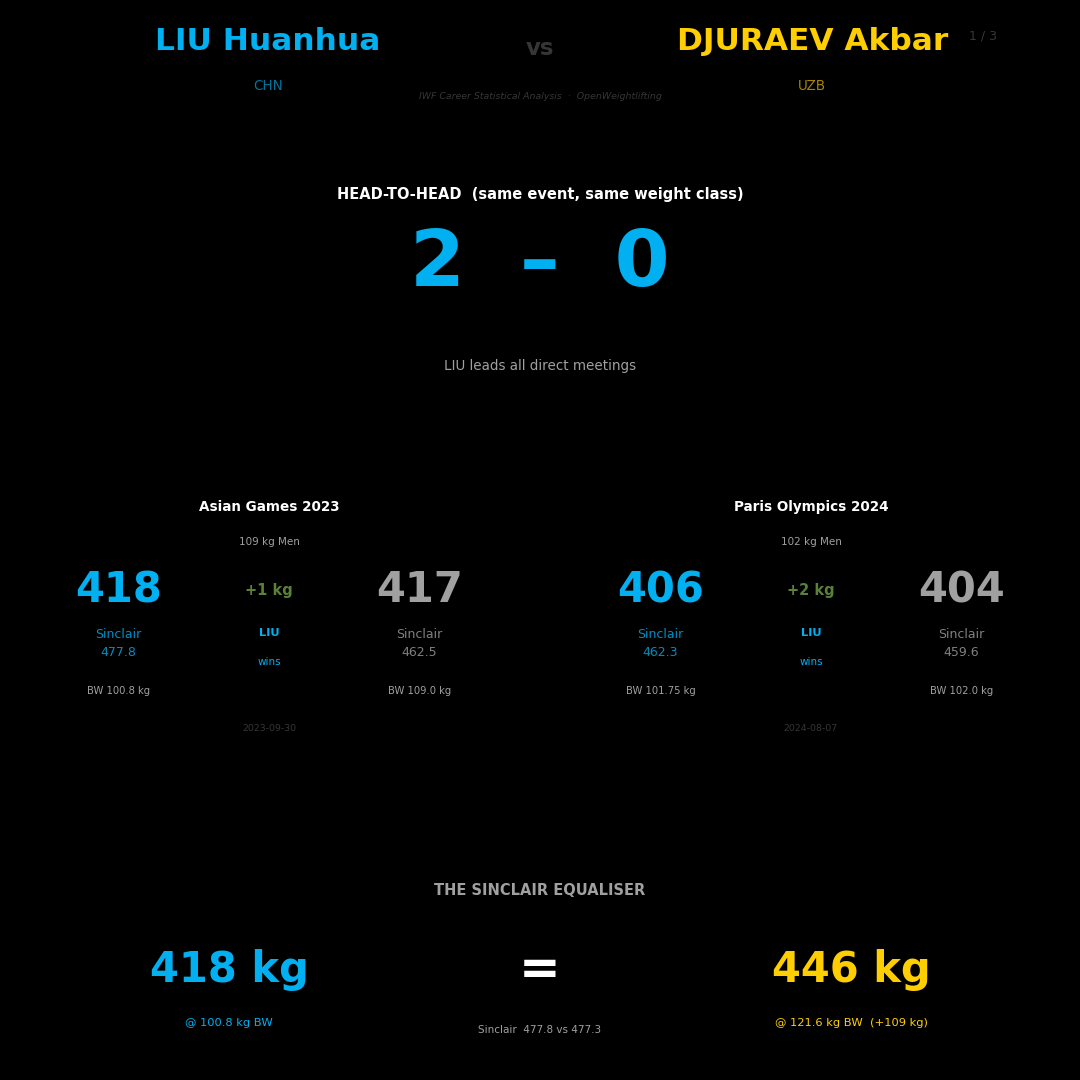
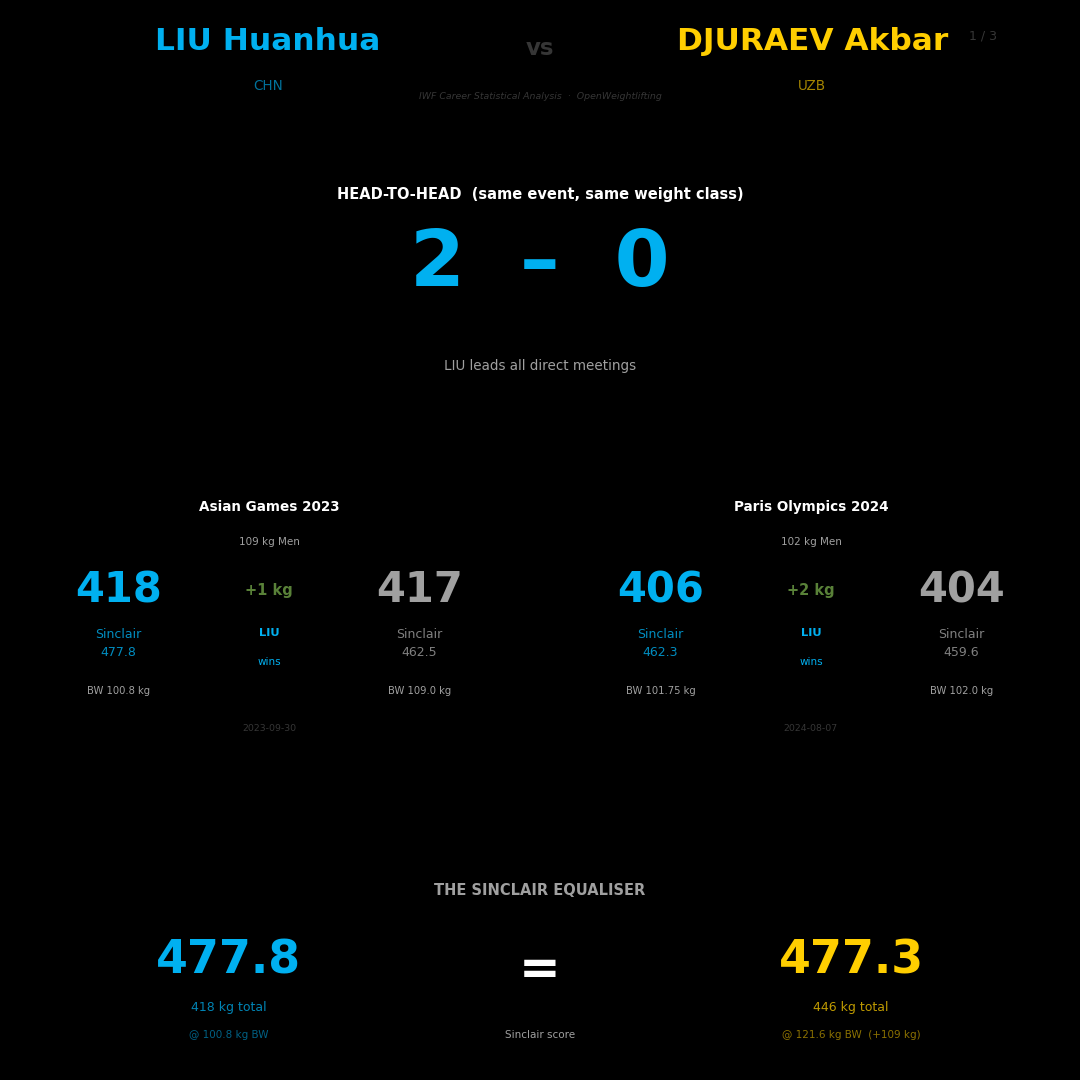
Invert Sinclair Equalizer: Sinclair scores as primary metric
Make the Sinclair scores (477.8 / 477.3) the large bold headline numbers
in the Sinclair Equalizer panel on Image 1, with raw totals and bodyweights
shown as smaller supporting context underneath.

https://claude.ai/code/session_01SfcGjgDhcGC31Kzw2TLvE9

diff --git a/scripts/compare_liu_akbar.py b/scripts/compare_liu_akbar.py
@@ -341,20 +341,24 @@ ax1e.text(0.50, 0.72, 'THE SINCLAIR EQUALISER', ha='center', va='center',
           color=LGRAY, fontsize=7, fontweight='bold',
           transform=ax1e.transAxes)
 
-ax1e.text(0.18, 0.38, '418 kg', ha='center', va='center', color=LIU_C,
-          fontsize=20, fontweight='black', transform=ax1e.transAxes)
-ax1e.text(0.18, 0.15, '@ 100.8 kg BW', ha='center', va='center',
-          color=LIU_C, fontsize=5.5, transform=ax1e.transAxes)
+ax1e.text(0.18, 0.42, '477.8', ha='center', va='center', color=LIU_C,
+          fontsize=22, fontweight='black', transform=ax1e.transAxes)
+ax1e.text(0.18, 0.22, '418 kg total', ha='center', va='center',
+          color=LIU_C, fontsize=6, alpha=0.75, transform=ax1e.transAxes)
+ax1e.text(0.18, 0.10, '@ 100.8 kg BW', ha='center', va='center',
+          color=LIU_C, fontsize=5, alpha=0.55, transform=ax1e.transAxes)
 
 ax1e.text(0.50, 0.38, '=', ha='center', va='center', color=WHITE,
           fontsize=24, fontweight='black', transform=ax1e.transAxes)
-ax1e.text(0.50, 0.12, 'Sinclair  477.8 vs 477.3', ha='center', va='center',
+ax1e.text(0.50, 0.10, 'Sinclair score', ha='center', va='center',
           color=LGRAY, fontsize=5, transform=ax1e.transAxes)
 
-ax1e.text(0.82, 0.38, '446 kg', ha='center', va='center', color=DJ_C,
-          fontsize=20, fontweight='black', transform=ax1e.transAxes)
-ax1e.text(0.82, 0.15, '@ 121.6 kg BW  (+109 kg)', ha='center', va='center',
-          color=DJ_C, fontsize=5.5, transform=ax1e.transAxes)
+ax1e.text(0.82, 0.42, '477.3', ha='center', va='center', color=DJ_C,
+          fontsize=22, fontweight='black', transform=ax1e.transAxes)
+ax1e.text(0.82, 0.22, '446 kg total', ha='center', va='center',
+          color=DJ_C, fontsize=6, alpha=0.75, transform=ax1e.transAxes)
+ax1e.text(0.82, 0.10, '@ 121.6 kg BW  (+109 kg)', ha='center', va='center',
+          color=DJ_C, fontsize=5, alpha=0.55, transform=ax1e.transAxes)
 
 save(fig1, '/home/user/OpenWeightlifting/liu_akbar_1_hook.png')
 
